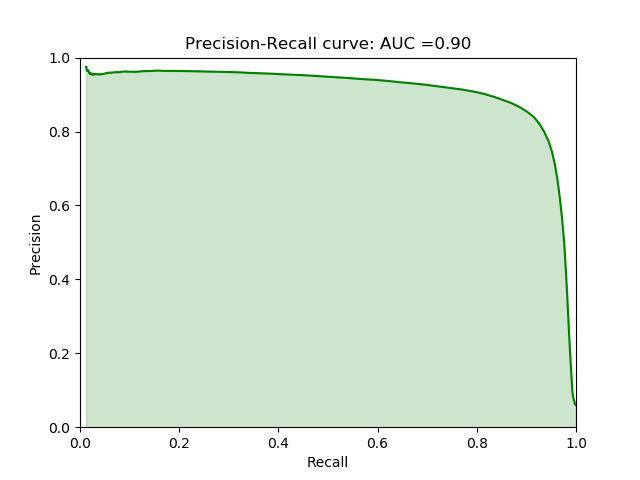
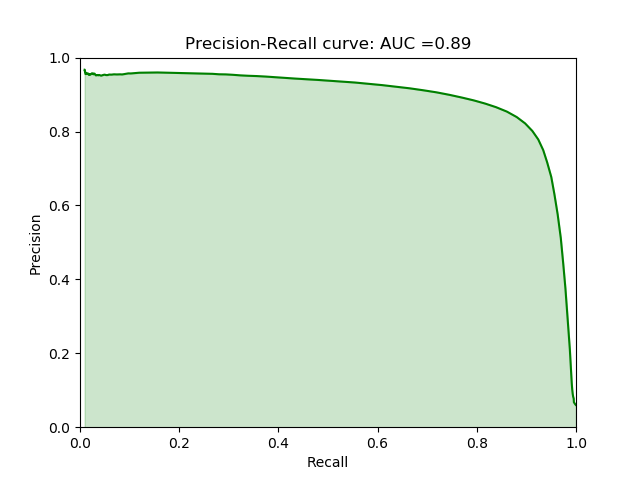
hole filling

Changed region(s): [[0.125, 0.125, 0.9062, 0.7188], [0.6875, 0.0625, 0.7188, 0.0938]]

diff --git a/tools/foreground_improving.py b/tools/foreground_improving.py
@@ -1,12 +1,10 @@
 import numpy as np
-from skimage.morphology import closing
-
+from skimage import morphology
 
 def hole_filling(image, fourConnectivity = True):
     if fourConnectivity:
-        kernel = np.array([[0, 1, 0], [1, 1, 1], [0, 1, 0]])
+        outputImage = morphology.remove_small_holes(image, connectivity=1)
     else:
-        kernel = np.array([[1, 1, 1], [1, 1, 1], [1, 1, 1]])
+        outputImage = morphology.remove_small_holes(image, connectivity=2)
 
-    outputImage = closing(image, kernel)
     return outputImage

diff --git a/config/highway_background.py b/config/highway_background.py
@@ -28,7 +28,6 @@ plot_back_model               = False
 
 # Foreground Modelling
 four_connectivity             = False
-hole_size_range               = [0, 1000]    # range of hole size values
 
 # Save results
 save_results                 = True        # Save Log file

diff --git a/config/fall_background.py b/config/fall_background.py
@@ -28,7 +28,6 @@ plot_back_model               = False
 
 # Foreground Modelling
 four_connectivity             = False
-hole_size_range               = [0, 100]    # range of hole size values
 
 # Save results
 save_results                 = True        # Save Log file

diff --git a/config/traffic_background.py b/config/traffic_background.py
@@ -28,7 +28,6 @@ plot_back_model               = False
 
 # Foreground Modelling
 four_connectivity             = False
-hole_size_range               = [0, 100]    # range of hole size values
 
 # Save results
 save_results                 = True        # Save Log file
